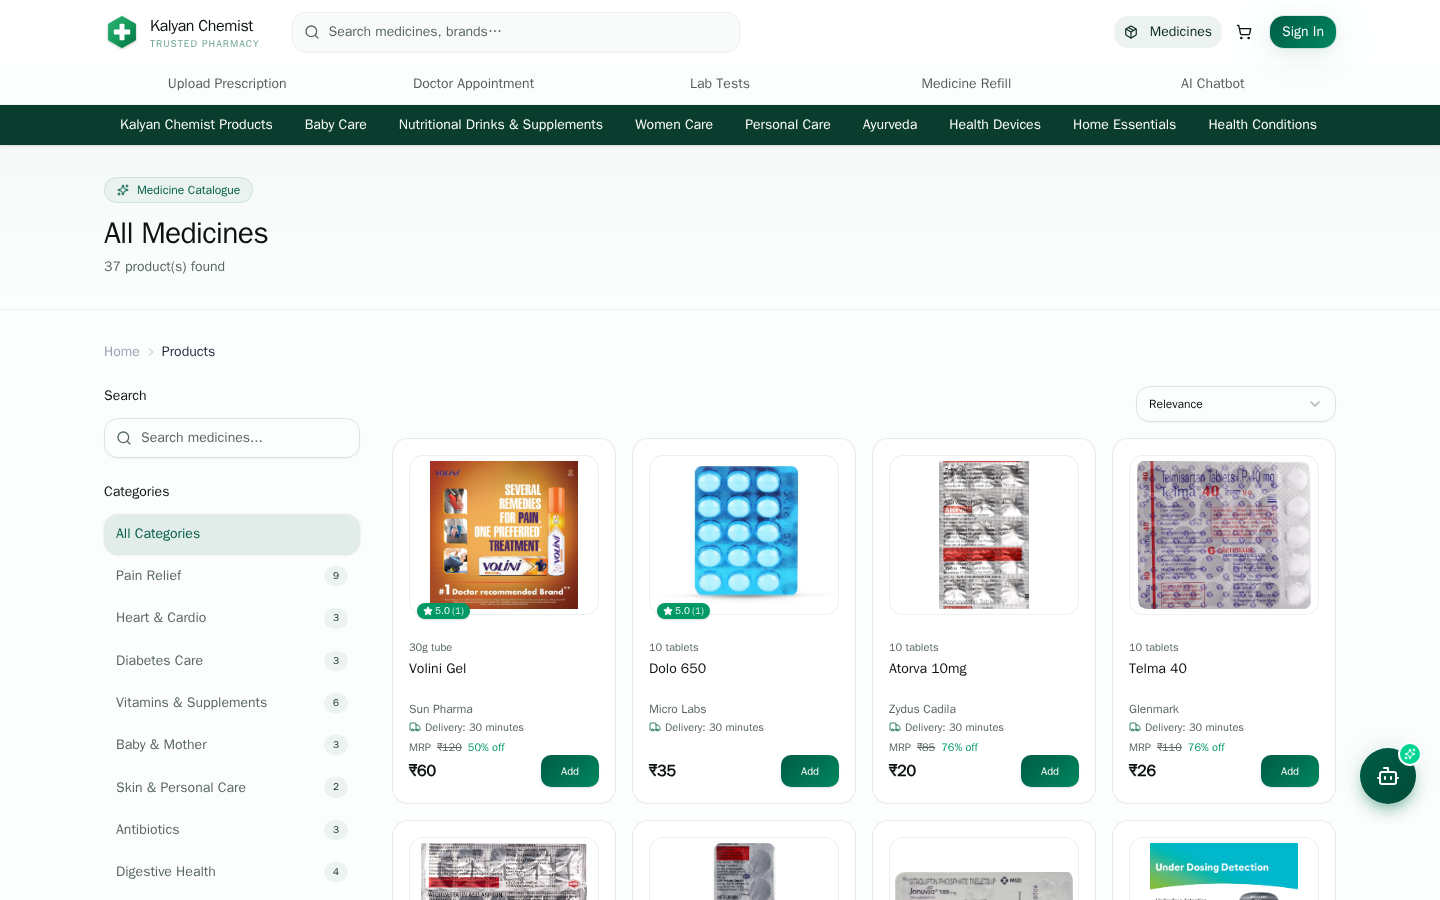
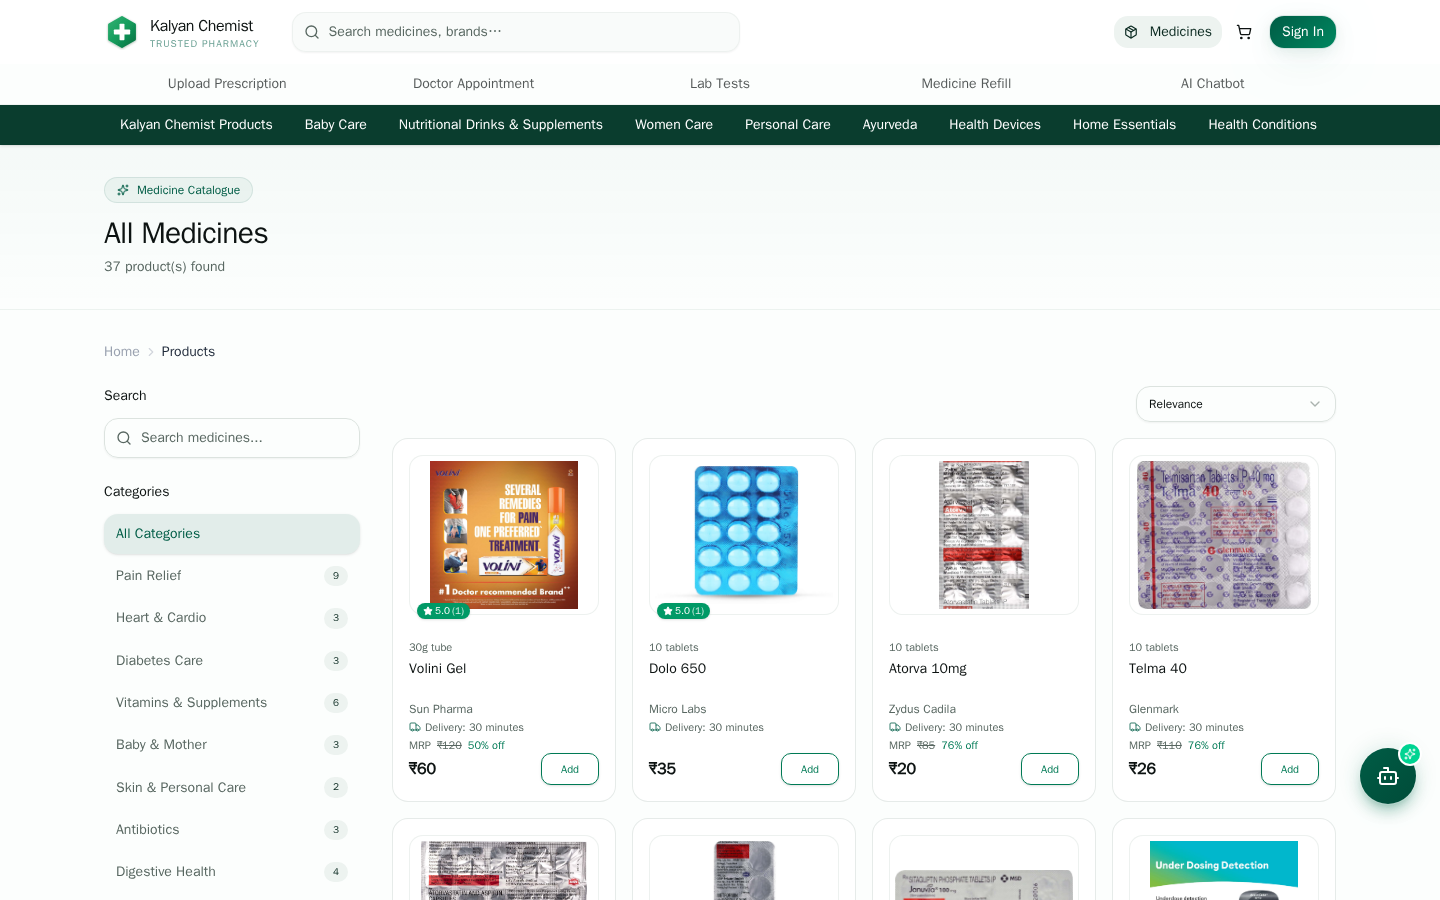
Before: continue

diff --git a/src/components/ProductCard.tsx b/src/components/ProductCard.tsx
@@ -79,7 +79,7 @@ function ProductImage({ src, alt }: { src: string; alt: string }) {
   );
 }
 
-/**
+/***
  * The real review summary for one product, rendered as the compact reference
  * badge (★ 4.3 (12)). It reads the existing `reviews.getAverageRating` query —
  * the same one the product page uses — so the figure on a card is the average
@@ -203,6 +203,7 @@ const ProductCard = memo(function ProductCard({ product, newArrival = false }: P
     .join(" · ");
   const isLowStock = product.stockQuantity > 0 && product.stockQuantity < 10;
 
+  // Keep the existing hover behaviour but also add explicit pointer leaves.
   const warmProductDetail = useCallback(() => {
     preloadProductDetail();
     convexClient.prewarmQuery({ query: api.products.getBySlug, args: { slug: product.slug } });
@@ -220,10 +221,12 @@ const ProductCard = memo(function ProductCard({ product, newArrival = false }: P
       animate="visible"
       data-slot="card"
       className="group relative flex h-full flex-col overflow-hidden rounded-2xl border border-border/70 bg-card cursor-pointer transition-all duration-500 hover:shadow-card-hover hover:border-primary/20 hover:-translate-y-1 max-sm:rounded-xl max-sm:border-border/60 max-sm:shadow-sm sm:min-h-[var(--kc-card-h)] sm:p-4"
-      onClick={() => goProduct(navigate, location.pathname + location.search, product.slug)}
+      onPointerEnter={warmProductDetail}
+      onPointerLeave={warmProductDetail}
       onMouseEnter={warmProductDetail}
       onFocus={warmProductDetail}
       onPointerDown={warmProductDetail}
+      onClick={() => goProduct(navigate, location.pathname + location.search, product.slug)}
     >
       <Button
         variant="ghost"
@@ -274,6 +277,20 @@ const ProductCard = memo(function ProductCard({ product, newArrival = false }: P
           <ProductRatingBadge productId={product._id} />
         </div>
 
+        {/* Compact Add control on the image's bottom-right, overlapping its
+            lower edge — exact Apollo-style white button with dark-green outline. */}
+        <div className="pointer-events-none absolute right-0 bottom-1.5 z-[2] max-sm:block sm:hidden">
+          <button
+            type="button"
+            aria-label={product.stockQuantity === 0 ? `${product.name} is out of stock` : `Add ${product.name} to cart`}
+            className={`h-8 w-[58px] rounded-lg border border-emerald-700 bg-white px-1 text-center text-[11px] font-semibold text-emerald-700 shadow-sm transition-all duration-300 hover:border-emerald-600 hover:bg-emerald-50 hover:text-emerald-800 hover:shadow-sm active:scale-[0.97] ${product.stockQuantity === 0 ? "opacity-40 cursor-not-allowed" : ""}`}
+            onClick={handleAddToCart}
+            disabled={product.stockQuantity === 0}
+          >
+            {product.stockQuantity === 0 ? "Sold out" : "Add"}
+          </button>
+        </div>
+
       </div>
 
       {/* On phones the image band is full-bleed and this block carries the
@@ -321,24 +338,24 @@ const ProductCard = memo(function ProductCard({ product, newArrival = false }: P
           )}
 
           {/* Price hierarchy, reference order: struck-through MRP with the one
-              and only discount percentage, then the effective selling price.
-              Anchored to the bottom of the card so the block stays aligned. */}
-          <div className="mt-auto pt-2">
+              and only discount percentage (dark green), then the effective
+              selling price. Anchored to the bottom of the card so the block
+              stays aligned with siblings. */}
+          <div className="mt-auto pt-1.5">
             {hasDiscount && (
               <div className="flex flex-wrap items-baseline gap-x-1.5 text-[10px] leading-3 text-muted-foreground sm:text-[11px]">
                 <span>MRP</span>
                 <span className="line-through">{formatCurrency(product.price)}</span>
                 {/* The one and only discount percentage on the card. */}
                 {discountPct > 0 && (
-                  <span data-slot="discount-pct" className="font-semibold text-emerald-600">
+                  <span data-slot="discount-pct" className="font-semibold text-emerald-700">
                     {discountPct}% off
                   </span>
                 )}
               </div>
             )}
-            {/* Price on the left, `Add` on the right, one row — the button
-                sits at the card's bottom-right aligned with the price.
-                Phones keep their own Buy Now / Cart row below. */}
+            {/* Selling price, bold, left-aligned, then the Add control on the
+                bottom-right (desktop) or the full-width Buy Now row (mobile). */}
             <div className="mt-0.5 flex items-center justify-between gap-2">
               <div className="min-w-0 text-base leading-6 font-extrabold text-foreground">
                 {formatCurrency(hasDiscount ? product.discountPrice! : product.price)}

diff --git a/src/pages/Landing.tsx b/src/pages/Landing.tsx
@@ -555,6 +555,17 @@ export default function Landing() {
                       <div className="pointer-events-none absolute bottom-1.5 left-2 z-[1] sm:-bottom-2">
                         <ProductRatingBadge productId={product._id} />
                       </div>
+                      <div className="pointer-events-none absolute right-0 bottom-1.5 z-[2] max-sm:block sm:hidden">
+                        <button
+                          type="button"
+                          aria-label={product.stockQuantity === 0 ? `${product.name} is out of stock` : `Add ${product.name} to cart`}
+                          className={`h-8 w-[58px] rounded-lg border border-emerald-700 bg-white px-1 text-center text-[11px] font-semibold text-emerald-700 shadow-sm transition-all duration-300 hover:border-emerald-600 hover:bg-emerald-50 hover:text-emerald-800 hover:shadow-sm active:scale-[0.97] ${product.stockQuantity === 0 ? "opacity-40 cursor-not-allowed" : ""}`}
+                          onClick={(e) => { e.stopPropagation(); handleAddToCart(product._id); }}
+                          disabled={product.stockQuantity === 0}
+                        >
+                          {product.stockQuantity === 0 ? "Sold out" : "Add"}
+                        </button>
+                      </div>
                       <div className="absolute right-0 bottom-1.5 z-[2] max-sm:hidden sm:-bottom-3">
                         <Button
                           size="sm"
